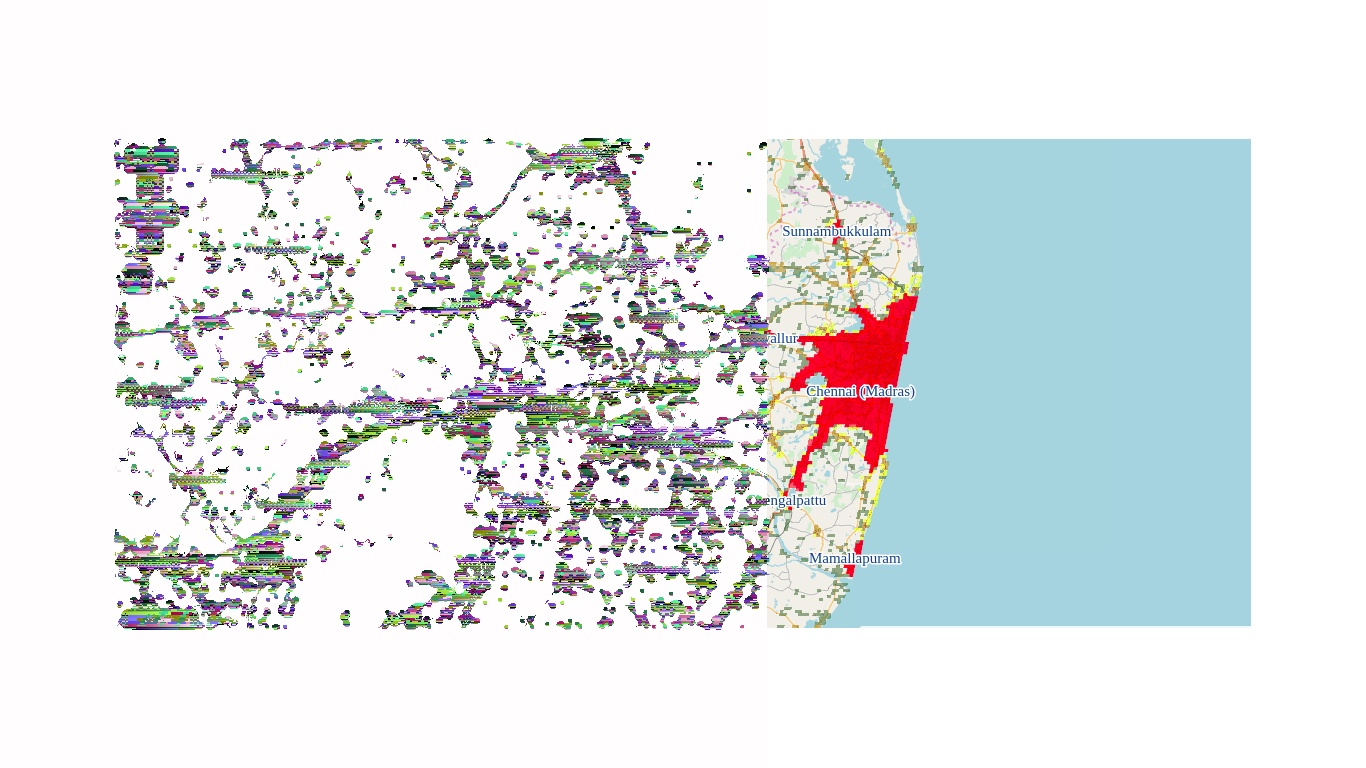
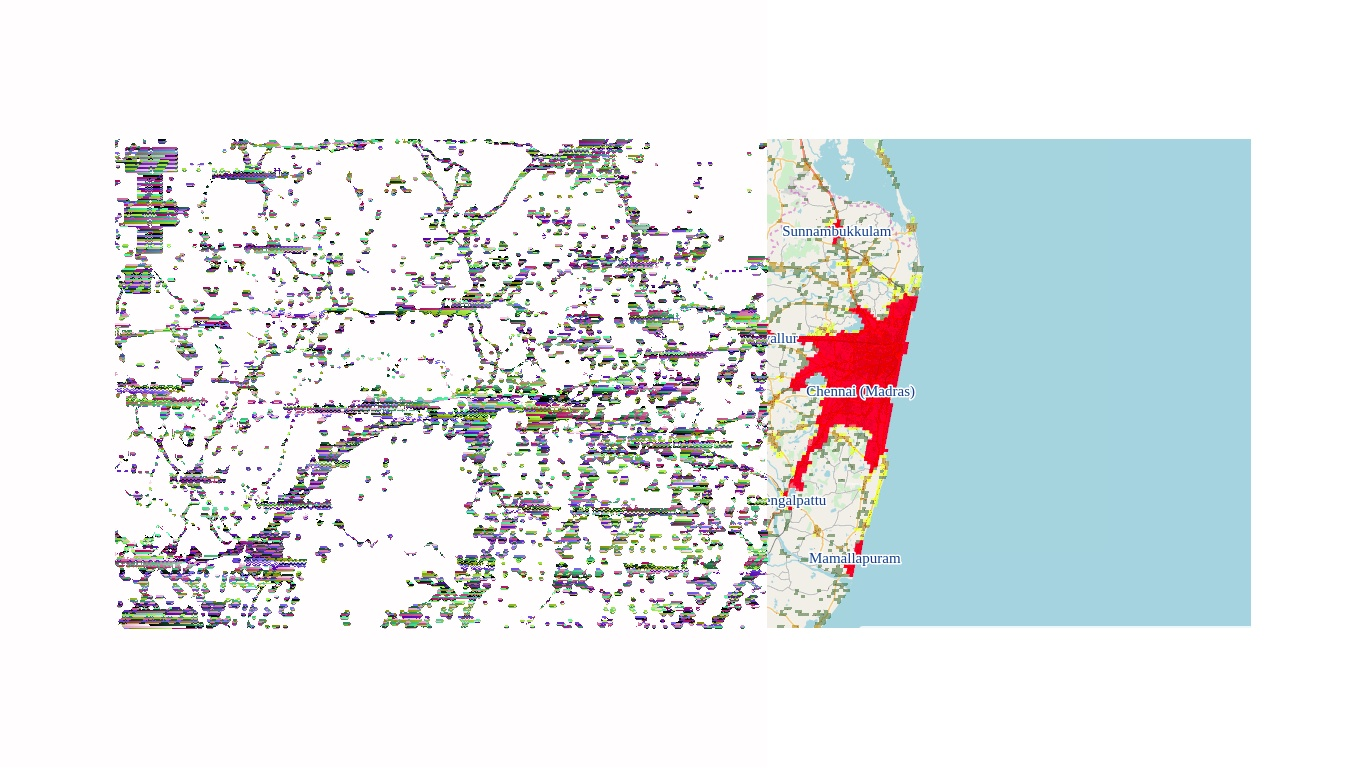
--------------------------------------------------------------------------------------------------------------------------------------------- 1196. (THEORY and FEATURE) GIS Analytics - DBSCAN Density Clustering - Neural Network Thresholding implementation - related to 1151,1171,1174,1179,1194 and al

Changed region(s): [[0.0615, 0.1562, 0.5842, 0.8438], [0.246, 0.25, 0.2767, 0.2812]]

diff --git a/python-src/DBSCANClustering.py b/python-src/DBSCANClustering.py
@@ -37,7 +37,7 @@ from networkx.algorithms import isomorphism
 from collections import defaultdict
 
 class DBSCAN(object):
-    def __init__(self,imagefile,threshold=200,epsilon=3,minpoints=10):
+    def __init__(self,imagefile,threshold=200,epsilon=2,minpoints=5):
         self.imagefile=imagefile
         self.img = cv2.imread(imagefile,0)
         #cv2.threshold(self.img, 0, 255, cv2.THRESH_BINARY_INV + cv2.THRESH_OTSU)
@@ -50,21 +50,34 @@ class DBSCAN(object):
         self.undefined=0
         self.clusterlabel=1
 
-    def find_neighbours(self,img,row,col,threshold,epsilon,minpoints):
+    def find_neighbours(self,img,row,col,threshold,epsilon,minpoints,neuralnetwork=False,thresholdfunction="lambda x: x"):
         neighbours=[]
-        for r in range(row-epsilon,row+epsilon):
-            for c in range(col-epsilon,col+epsilon):
-                if r > 0 and c > 0 and r < len(img)-1 and c < len(img[0])-1:
-                     if img[r][c] < threshold:
-                         neighbours.append((r, c))
-        #print("neighbours of (",row,",",col,")",neighbours)
-        return neighbours
+        if not neuralnetwork:
+            for r in range(row-epsilon,row+epsilon):
+                 for c in range(col-epsilon,col+epsilon):
+                     if r > 0 and c > 0 and r < len(img)-1 and c < len(img[0])-1:
+                          if img[r][c] < threshold:
+                              neighbours.append((r, c))
+            #print("neighbours of (",row,",",col,")",neighbours)
+            return neighbours
+        else:
+            evaledthresholdfunction=eval(thresholdfunction)
+            for r in range(row-epsilon,row+epsilon):
+                 for c in range(col-epsilon,col+epsilon):
+                     if r > 0 and c > 0 and r < len(img)-1 and c < len(img[0])-1:
+                         evaledthreshold=evaledthresholdfunction(img[r][c])
+                         #print("evaledthreshold:",evaledthreshold)
+                         if evaledthreshold > threshold:
+                             neighbours.append((r,c))
+            #print("neighbours of (",row,",",col,")",neighbours)
+            return neighbours
 
     def clustering(self):
         for row in range(len(self.img)-1):
             for col in range(len(self.img)-1):
                 if self.dbscandict[(row,col)]!=self.undefined:
                     continue
+                #neighbours = self.find_neighbours(self.img,row,col,self.threshold,self.epsilon,self.minpoints,neuralnetwork=True,thresholdfunction="lambda x: x")
                 neighbours = self.find_neighbours(self.img,row,col,self.threshold,self.epsilon,self.minpoints)
                 if len(neighbours) < self.minpoints:
                     self.dbscandict[(row,col)]=self.noise
@@ -80,28 +93,43 @@ class DBSCAN(object):
                     if self.dbscandict[s]!=self.undefined:
                         continue
                     self.dbscandict[s]=self.clusterlabel
+                    #s_neighbours=self.find_neighbours(self.img,s[0],s[1],self.threshold,self.epsilon,self.minpoints,neuralnetwork=True,thresholdfunction="lambda x: x")
                     s_neighbours=self.find_neighbours(self.img,s[0],s[1],self.threshold,self.epsilon,self.minpoints)
                     if len(s_neighbours) >= self.minpoints:
                         seedpoints = seedpoints + s_neighbours
                     #seedpoints.remove(s)
-        print("DBSCAN cluster labelling of pixels:",self.dbscandict)
+        #print("DBSCAN cluster labelling of pixels:",self.dbscandict)
 
-    def write_clustered_image(self):
-        number_of_clusters=len(set(self.dbscandict.values()))
-        print("number of DBSCAN density clusters:",number_of_clusters)
-        print("size of image:",self.img.shape[0] * self.img.shape[1])
-        print("size of dbscandict:",len(self.dbscandict.items()))
-        dbscanimg = cv2.imread(self.imagefile)
-        for k,v in self.dbscandict.items():
-            cluster=self.dbscandict[k]
-            dbscanimg[k[0],k[1]]=(cluster*2,cluster*3,cluster)
-        imagefiletoks = self.imagefile.split(".")
-        cv2.imshow(imagefiletoks[0]+"_dbscanclustered.jpg",dbscanimg)
-        cv2.imwrite(imagefiletoks[0]+"_dbscanclustered.jpg",dbscanimg)
-        cv2.waitKey()
+    def write_clustered_image(self,neuralnetwork=False,fraction=1):
+        if not neuralnetwork:
+            number_of_clusters=len(set(self.dbscandict.values()))
+            print("number of DBSCAN density clusters:",number_of_clusters)
+            print("size of image:",self.img.shape[0] * self.img.shape[1])
+            print("size of dbscandict:",len(self.dbscandict.items()))
+            dbscanimg = cv2.imread(self.imagefile)
+            for k,v in self.dbscandict.items():
+              cluster=self.dbscandict[k]
+              dbscanimg[k[0],k[1]]=(cluster*2,cluster*3,cluster)
+            imagefiletoks = self.imagefile.split(".")
+            #cv2.imshow(imagefiletoks[0]+"_dbscanclustered.jpg",dbscanimg)
+            cv2.imwrite(imagefiletoks[0]+"_dbscanclustered.jpg",dbscanimg)
+            #cv2.waitKey()
+        else:
+            epsilon=int(min(self.img.shape[0],self.img.shape[1])*fraction)
+            neighbours=self.find_neighbours(self.img,int(self.img.shape[0]/2),int(self.img.shape[1]/2),200,epsilon,200,neuralnetwork=True,thresholdfunction="lambda x: 2*x")
+            dbscanimg = cv2.imread(self.imagefile)
+            for pixel in neighbours:
+                dbscanimg[pixel[0],pixel[1]]=(255,255,255)
+            imagefiletoks = self.imagefile.split(".")
+            #cv2.imshow(imagefiletoks[0]+"_neuralnetworkclustered.jpg",dbscanimg)
+            cv2.imwrite(imagefiletoks[0]+"_neuralnetworkclustered.jpg",dbscanimg)
+            #cv2.waitKey()
 
 if __name__=="__main__":
-    dbscan=DBSCAN("image_pattern_mining/ImageNet/testlogs/GHSL_GIS_ChennaiMetropolitanArea.jpg")
-    dbscan.clustering()
-    dbscan.write_clustered_image()
+    dbscan1=DBSCAN("image_pattern_mining/ImageNet/testlogs/GHSL_GIS_ChennaiMetropolitanArea.jpg")
+    dbscan1.clustering()
+    dbscan1.write_clustered_image(neuralnetwork=False)
+    dbscan1.write_clustered_image(neuralnetwork=True)
+    dbscan2=DBSCAN("image_pattern_mining/ImageNet/testlogs/HRSL_World_NightTimeStreets.jpg")
+    dbscan2.write_clustered_image(neuralnetwork=True,fraction=0.25)
 
